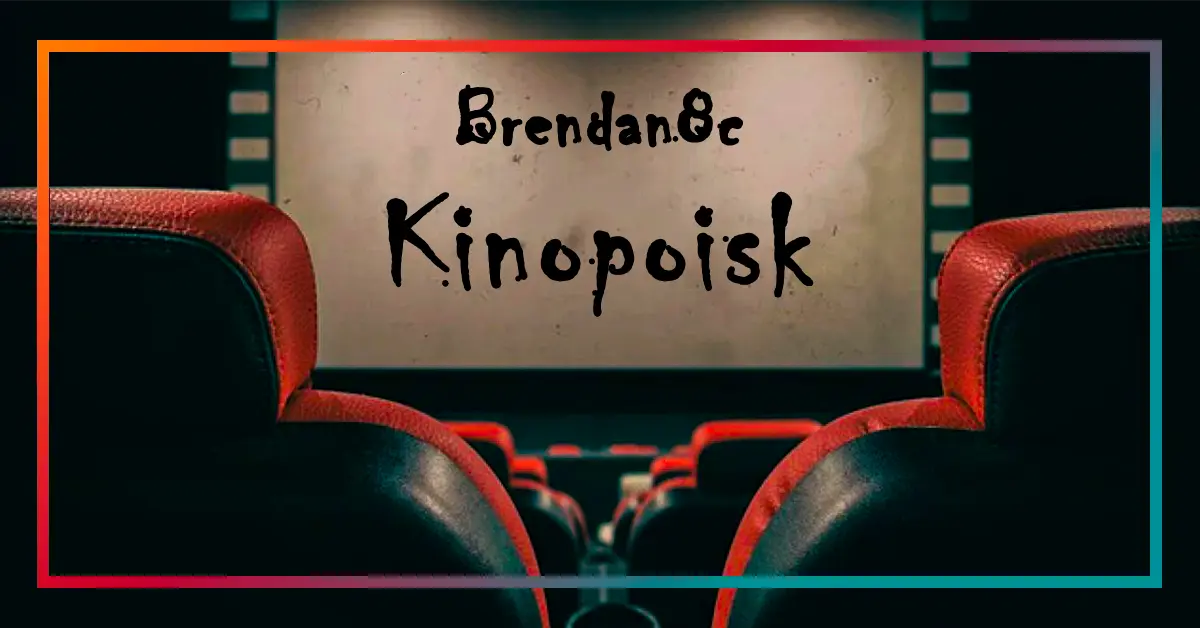
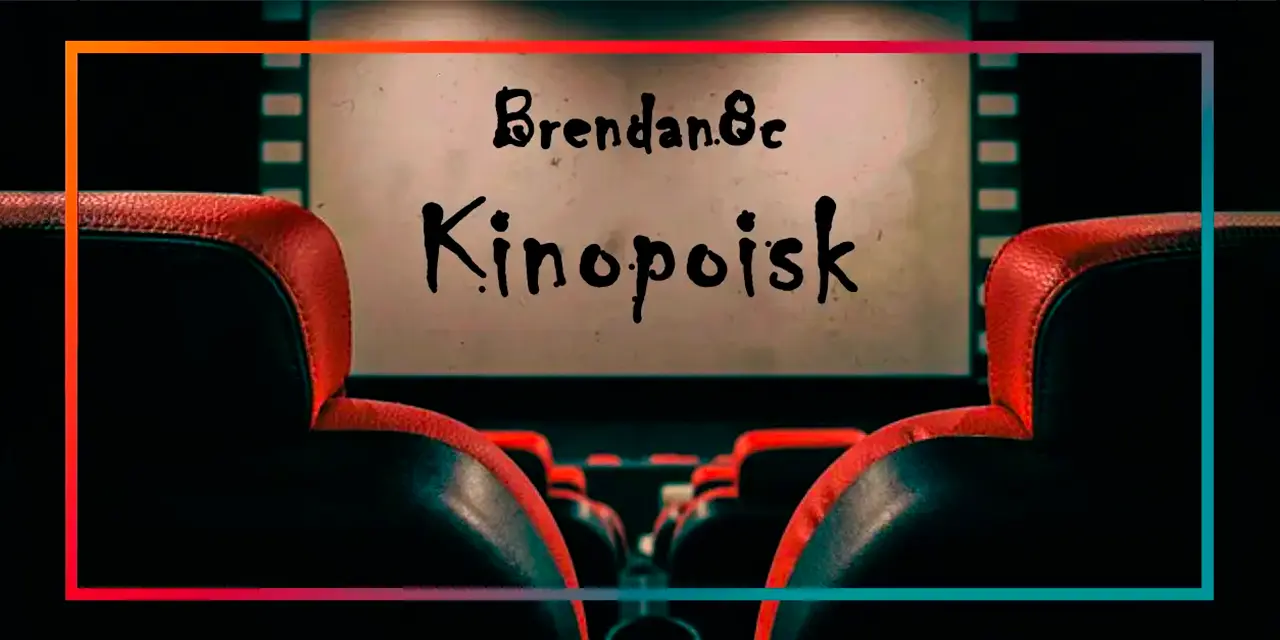
Updated files

diff --git a/index.html b/index.html
@@ -30,14 +30,14 @@
     <meta property="og:image:secure_url" content="https://owlov.ru/img/social-default.webp" />
     <meta property="og:image:alt" content="Website preview for social networks" />
     <meta property="og:image:type" content="image/jpeg" />
-    <meta property="og:image:width" content="1200" />
-    <meta property="og:image:height" content="628" />
+    <meta property="og:image:width" content="1280" />
+    <meta property="og:image:height" content="640" />
     <meta property="og:image" content="https://owlov.ru/img/social-default2.webp" />
     <meta property="og:image:url" content="https://owlov.ru/img/social-default2.webp" />
     <meta property="og:image:secure_url" content="https://owlov.ru/img/social-default2.webp" />
     <meta property="og:image:type" content="image/jpeg" />
     <meta property="og:image:width" content="960" />
-    <meta property="og:image:height" content="502" />
+    <meta property="og:image:height" content="480" />
     <meta name="twitter:card" content="summary_large_image" />
     <meta name="twitter:site" content="@brendan8c" />
   </head>
